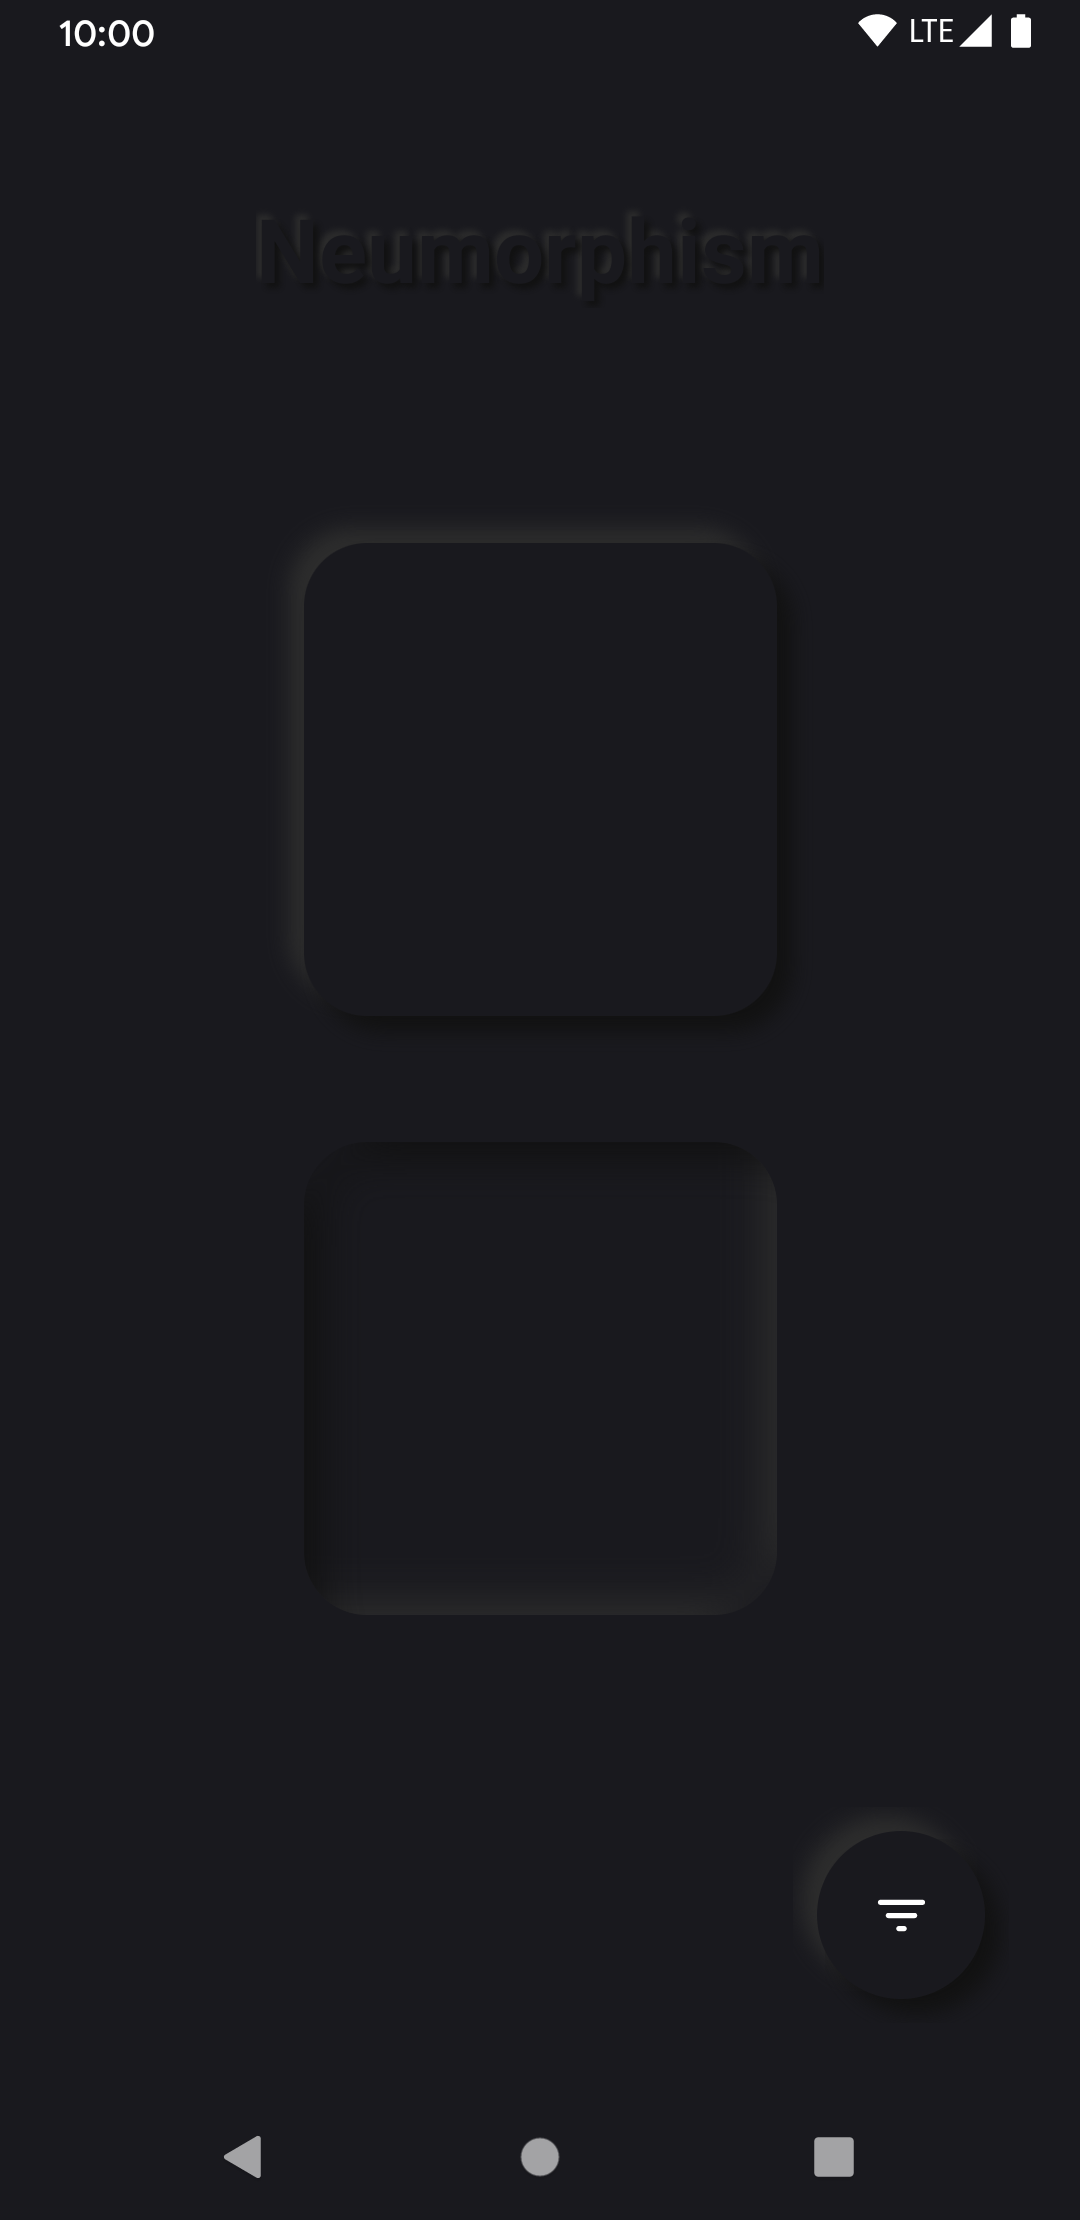
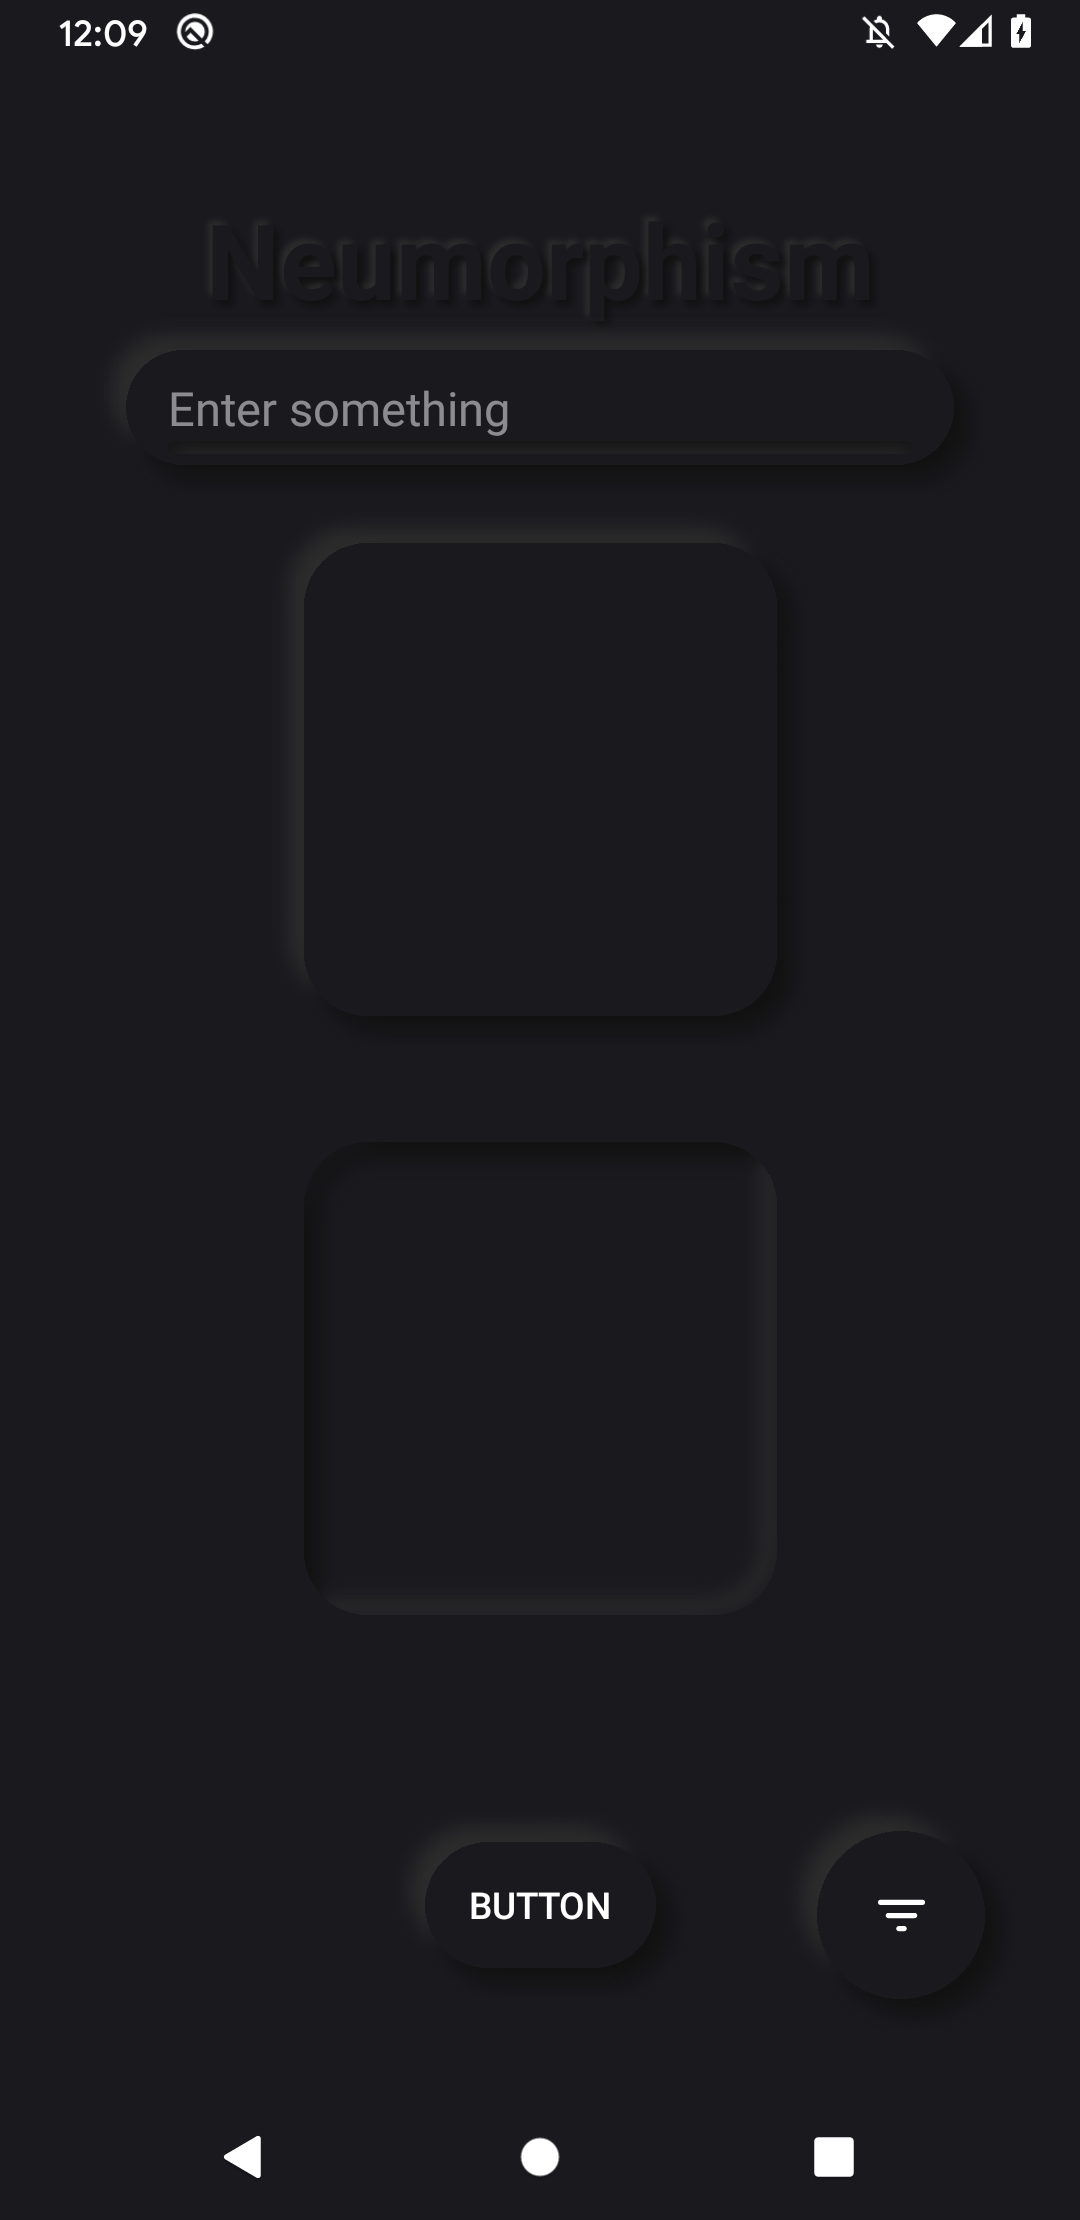
Update README.md

diff --git a/README.md b/README.md
@@ -39,7 +39,7 @@ allprojects {
 Then, add the library to your module `build.gradle`
 ```gradle
 dependencies {
-    implementation 'com.github.fornewid:neumorphism:0.1.0'
+    implementation 'com.github.fornewid:neumorphism:0.1.1'
 }
 ```
 
@@ -47,6 +47,8 @@ dependencies {
 - CardView
 - FloatingActionButton
 - TextView
+- Button
+- EditText
 
 > If you want more features, please click [new issue](https://github.com/fornewid/neumorphism/issues/new) and report to me!
 
